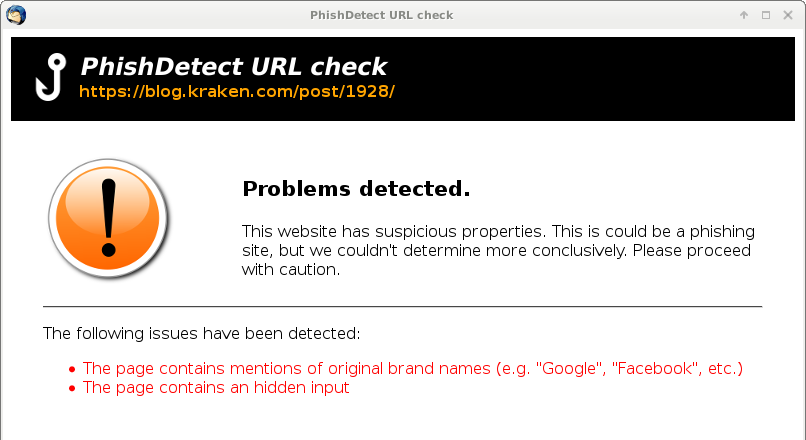
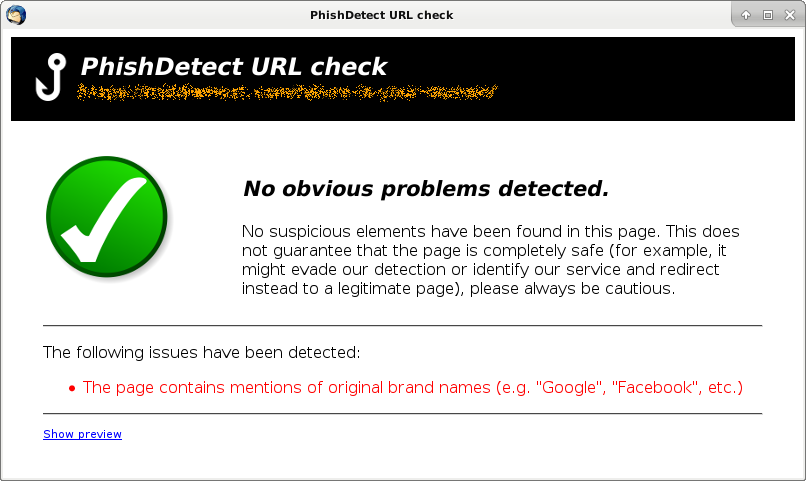
Explained website preview for URL check.

diff --git a/README.md b/README.md
@@ -200,6 +200,8 @@ is displayed in a separate dialog box:
 
 ![PhishDetect check screenshot](https://github.com/bfix/phishdetect-thunderbird/raw/master/docs/img/pd-check.png)
 
+By clicking on "Show preview" you can see a screenshot of the website as
+seen by the PhishDetect node.
 
 ### Reporting
 
